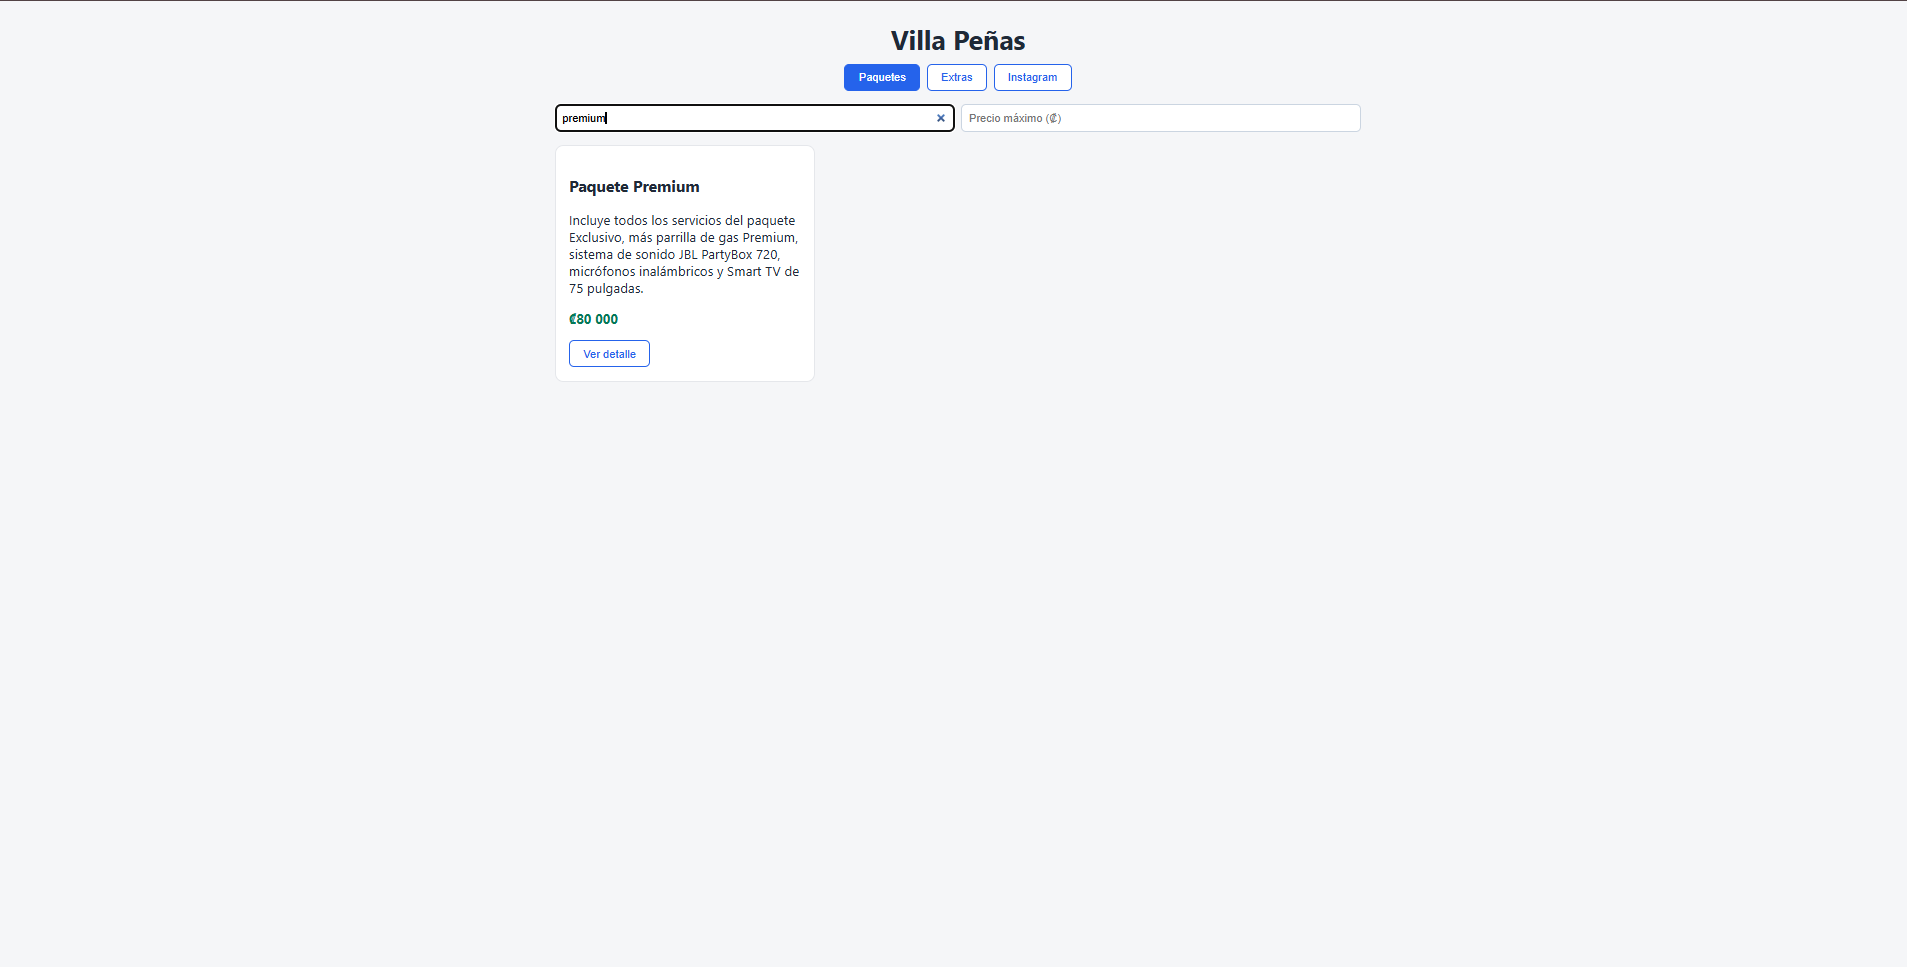
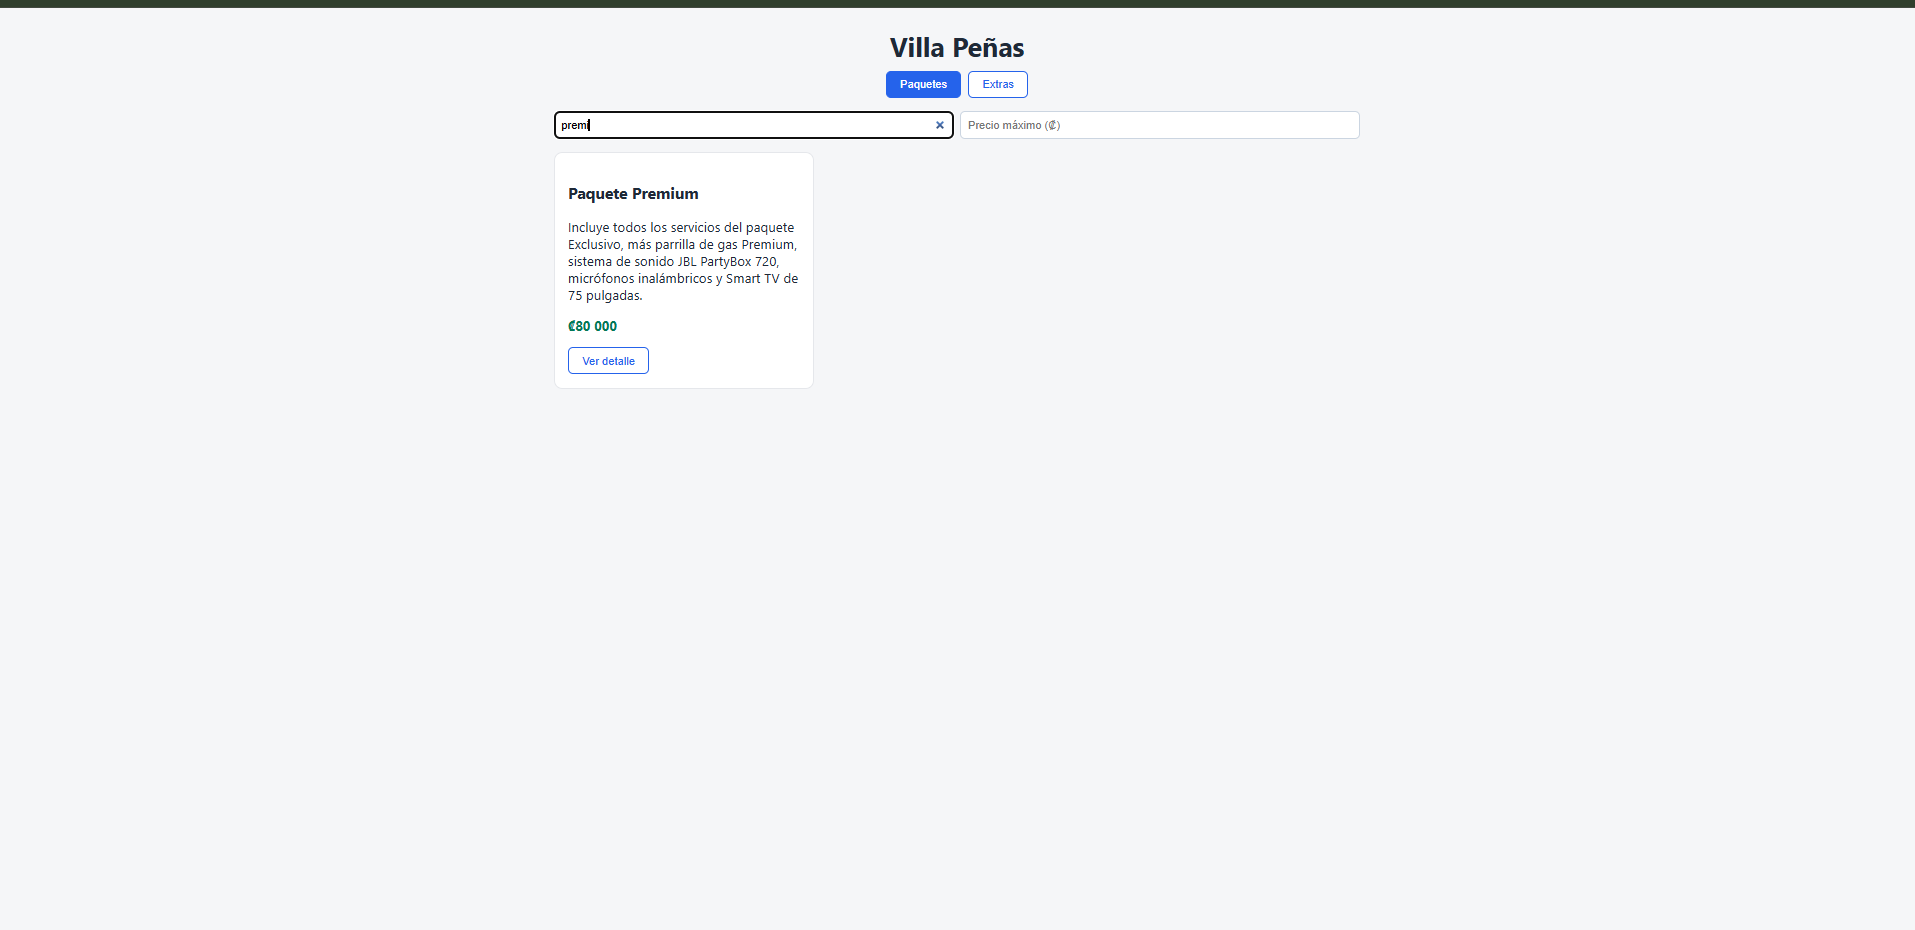
Capturas de interfaz actualizadas sin pestaña de Instagram

Changed region(s): [[0.0, 0.0, 1.0, 0.1559], [0.2784, 0.1871, 0.4331, 0.4054]]

diff --git a/README.md b/README.md
@@ -1,32 +1,49 @@
-# React + TypeScript + Vite
+# Villa Peñas · Consumo de API REST
 
-This template provides a minimal setup to get React working in Vite with HMR and some Oxlint rules.
+Examen práctico de Programación III · Universidad Nacional, Sede Regional Chorotega, Campus Nicoya
+Docente: Ing. Gloriana Peña Ramírez
 
-Currently, two official plugins are available:
+Aplicación web desarrollada con **React + TypeScript + Vite** que consulta la API REST pública de Villa Peñas y muestra sus paquetes y servicios adicionales, sin modificar el backend.
 
-- [@vitejs/plugin-react](https://github.com/vitejs/vite-plugin-react/blob/main/packages/plugin-react) uses [Oxc](https://oxc.rs)
-- [@vitejs/plugin-react-swc](https://github.com/vitejs/vite-plugin-react/blob/main/packages/plugin-react-swc) uses [SWC](https://swc.rs/)
+- **Estudiante:** TU NOMBRE COMPLETO
+- **Repositorio:** https://github.com/ellerucks/villa-penas-app-exam
+- **API:** https://villa-penas-production.up.railway.app
+- **Documentación Swagger:** https://villa-penas-production.up.railway.app/api/docs
 
-## React Compiler
+## Cómo iniciar el proyecto
 
-The React Compiler is not enabled on this template because of its impact on dev & build performances. To add it, see [this documentation](https://react.dev/learn/react-compiler/installation).
+Requisitos: Node.js 18 o superior y npm.
 
-## Expanding the Oxlint configuration
+1. Clonar el repositorio:
+   ```bash
+   git clone https://github.com/ellerucks/villa-penas-app-exam.git
+   cd villa-penas-app-exam
+   ```
+2. Instalar dependencias:
+   ```bash
+   npm install
+   ```
+3. Crear el archivo de entorno copiando el ejemplo:
+   ```bash
+   cp .env.example .env
+   ```
+   En Windows (PowerShell): `copy .env.example .env`. El archivo contiene:
+   ```
+   VITE_API_URL=https://villa-penas-production.up.railway.app
+   ```
+4. Iniciar el servidor de desarrollo:
+   ```bash
+   npm run dev
+   ```
+5. Abrir http://localhost:5173. El puerto está fijo en 5173 porque es uno de los orígenes autorizados por CORS en la API.
 
-If you are developing a production application, we recommend enabling type-aware lint rules by installing `oxlint-tsgolint` and editing `.oxlintrc.json`:
+Para verificar tipos: `npx tsc --noEmit -p tsconfig.app.json`.
 
-```json
-{
-  "$schema": "./node_modules/oxlint/configuration_schema.json",
-  "plugins": ["react", "typescript", "oxc"],
-  "options": {
-    "typeAware": true
-  },
-  "rules": {
-    "react/rules-of-hooks": "error",
-    "react/only-export-components": ["warn", { "allowConstantExport": true }]
-  }
-}
-```
+## Endpoints consumidos
 
-See the [Oxlint rules documentation](https://oxc.rs/docs/guide/usage/linter/rules) for the full list of rules and categories.
+Todos son operaciones **GET públicas** que, según Swagger, no requieren credenciales. No se usa ningún endpoint con autenticación.
+
+| Endpoint | Datos relevantes | Uso en la interfaz |
+|---|---|---|
+| `GET /public/paquetes` | nombre, descripción, precio en colones, servicios incluidos | Catálogo con búsqueda por texto y filtro por precio máximo |
+| `GET /public/paquetes/{id}` | datos del paquete y sus servicios con descripción y
